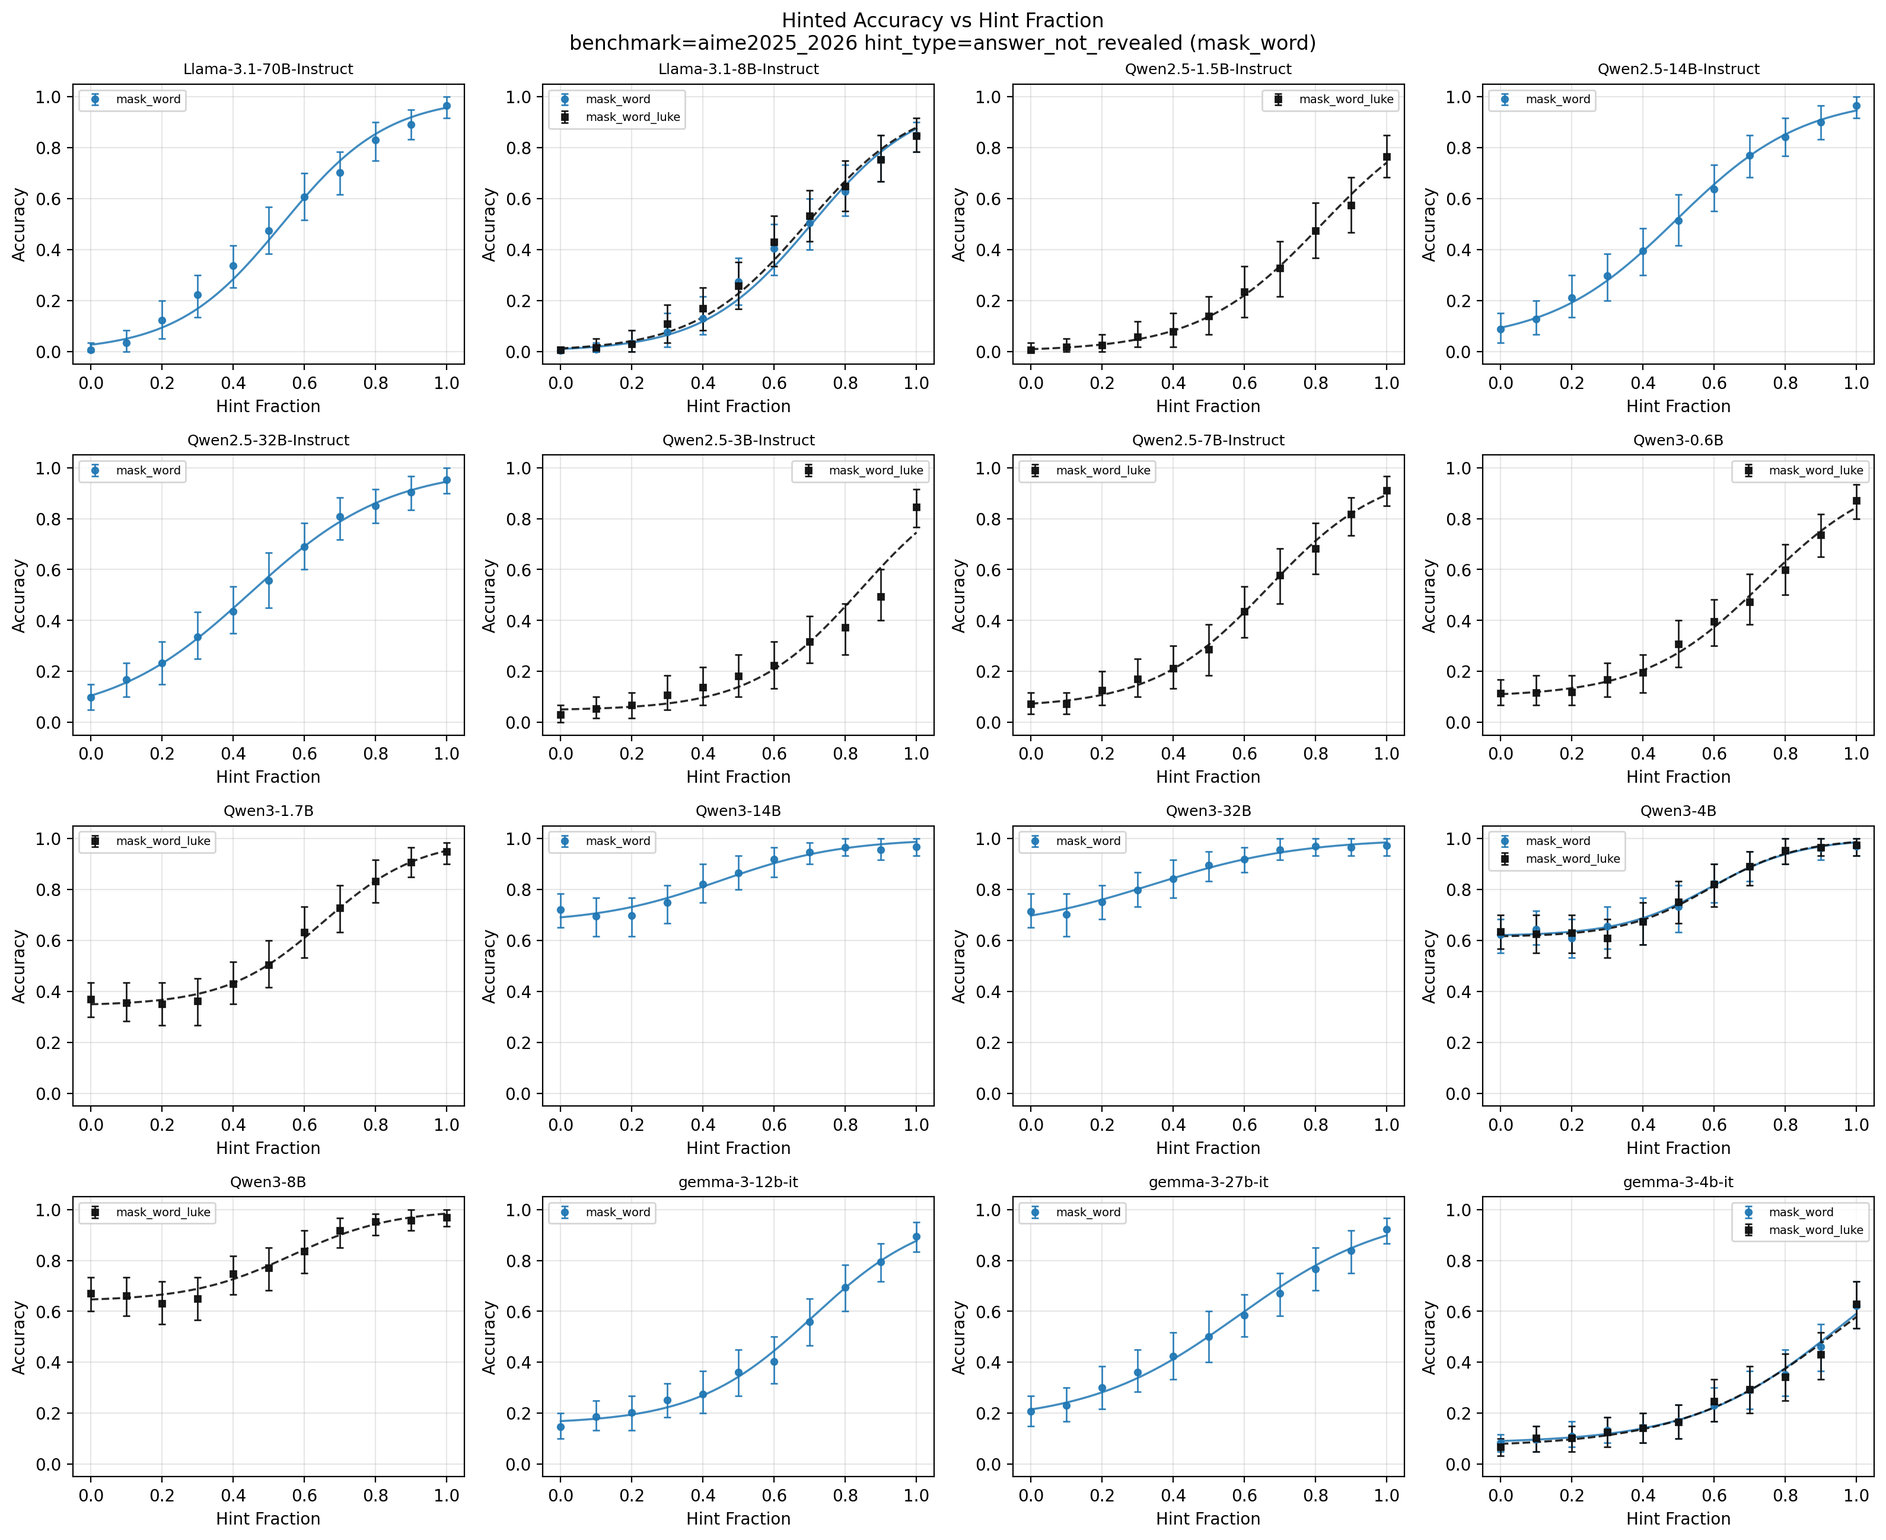
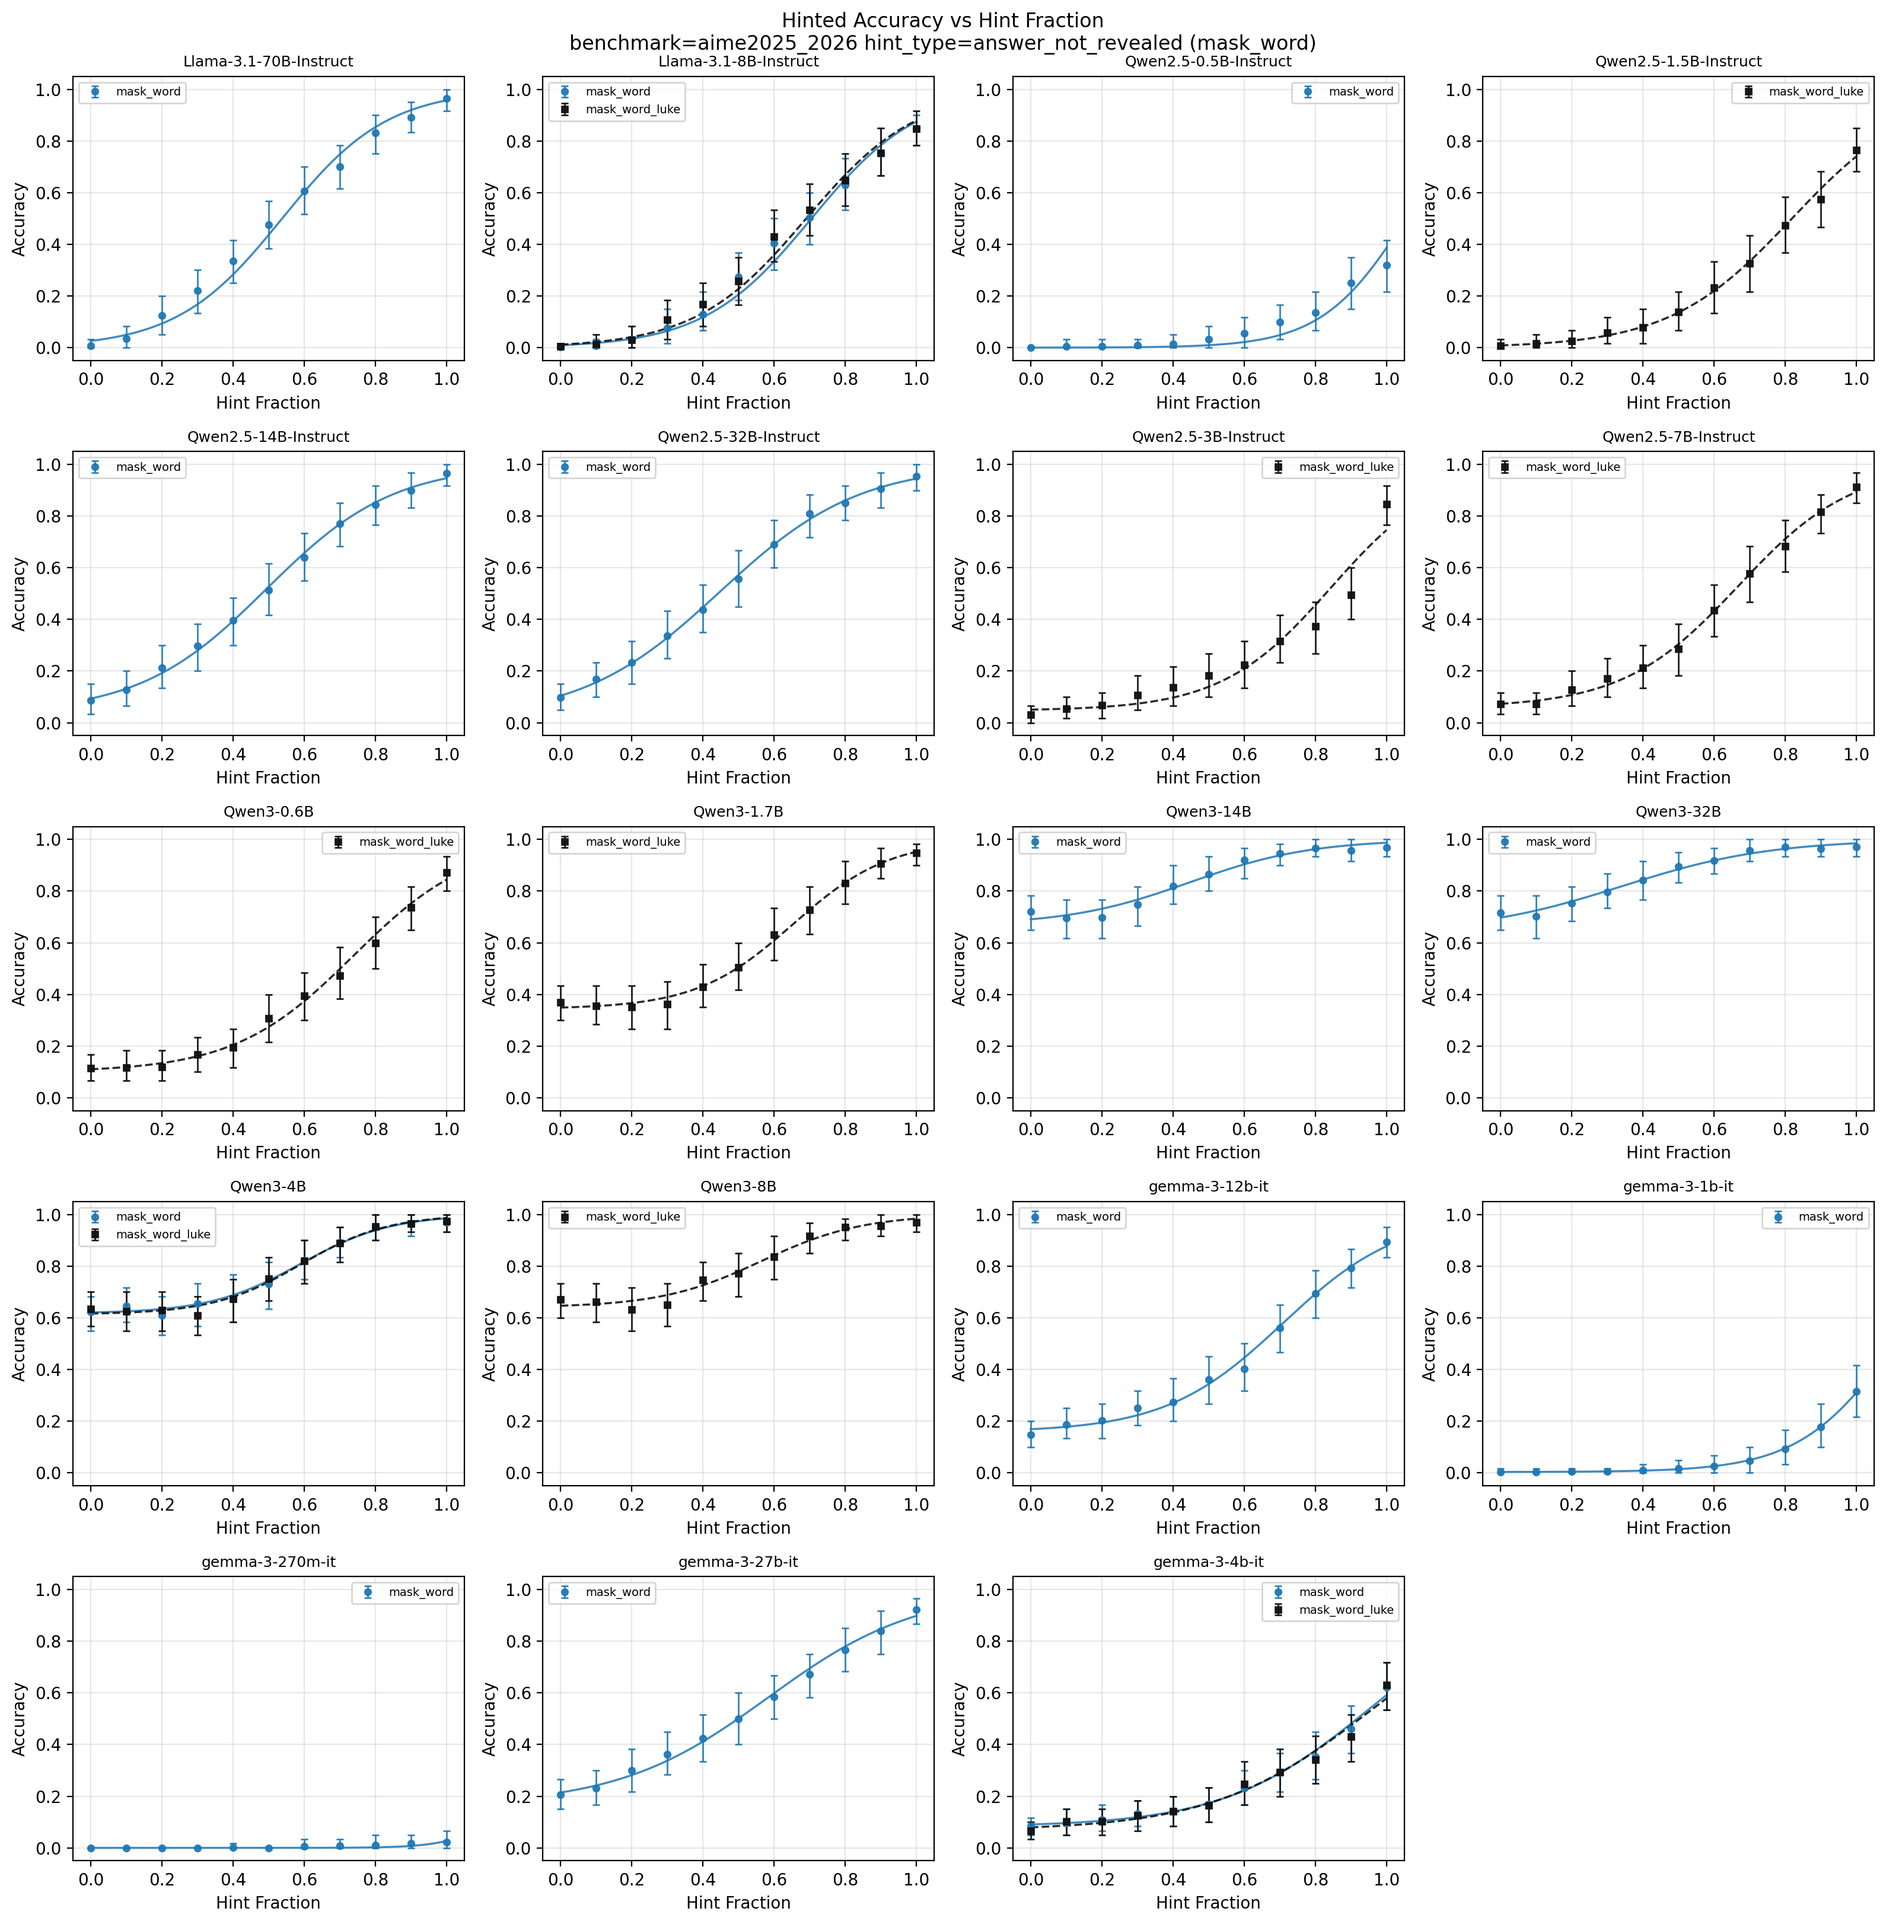
fix miso bug

diff --git a/runs/generate_hinted.py b/runs/generate_hinted.py
@@ -12,7 +12,7 @@ from src.hinted_inference import build_expanded_hinted_prompt_dataset, run_hinte
 from src.model_config import ALL_MODEL_PATHS, ModelSpec, get_model_spec
 from src.storage import build_hint_generation_path, build_hinted_inference_path, read_jsonl
 from src.types import ExpandedHintedPromptRecord, HintGenerationRecord, HintedInferenceRecord
-from src.vllm_server import VLLMServer, VLLMServerConfig
+from src.vllm_server import DEFAULT_HEALTH_TIMEOUT_SECONDS, VLLMServer, VLLMServerConfig
 
 MODELS_TO_RUN = list(ALL_MODEL_PATHS)
 HINT_FRACTIONS = [i / 10 for i in range(11)]
@@ -492,6 +492,7 @@ def _build_run_metadata(
             "gpu_memory_utilization": args.gpu_memory_utilization,
             "max_num_batched_tokens": MAX_NUM_BATCHED_TOKENS,
             "dtype": args.dtype,
+            "health_timeout": DEFAULT_HEALTH_TIMEOUT_SECONDS,
             "enable_prefix_caching": True,
             "enable_chunked_prefill": True,
         },
@@ -695,8 +696,8 @@ MISO
 python -m runs.generate_hinted \
     --benchmark aime2025_2026 \
     --hint-type answer_not_revealed \
-    --fractioner truncate_sentence \
-    --model google/gemma-3-12b-it \
+    --fractioner mask_word \
+    --model meta-llama/Llama-3.3-70B-Instruct \
     --executor submitit \
     --cluster miso \
     --max-connections 360 \
@@ -707,29 +708,19 @@ python -m runs.generate_hinted \
 ^ 260 is too much for Qwen3-32B but good for 14B
 ^260 is not enough for gemma 12B
 
-Qwen2.5-32B-Instruct
-Qwen2.5-14B-Instruct
 
 NLP
 python -m runs.generate_hinted \
     --benchmark aime2025_2026 \
     --hint-type answer_not_revealed \
-    --fractioner truncate_word \
-    --model Qwen/Qwen3-4B \
+    --fractioner mask_word \
+    --model Qwen/Qwen2.5-0.5B-Instruct \
     --executor submitit \
     --cluster sphinx \
     --max-connections 48 \
     --num-gpus 1 \
     --checkpoint-every 500
 
-CREATING HINTS
-python -m runs.generate_hinted \
-    --benchmark aime2025_2026 \
-    --hint-type answer_not_revealed \
-    --fractioner truncate_word \
-    --model Qwen/Qwen3-4B \
-    --executor local \
-    --build-only true
 
 
 TOGETHER

diff --git a/src/vllm_server.py b/src/vllm_server.py
@@ -10,8 +10,9 @@ import urllib.request
 from dataclasses import dataclass
 from typing import Any
 
-HF_HUB_ETAG_TIMEOUT_SECONDS = 60
-HF_HUB_DOWNLOAD_TIMEOUT_SECONDS = 600
+DEFAULT_HEALTH_TIMEOUT_SECONDS = 3600
+HF_HUB_ETAG_TIMEOUT_SECONDS = 300
+HF_HUB_DOWNLOAD_TIMEOUT_SECONDS = 1800
 
 
 def _timestamp() -> str:
@@ -70,7 +71,7 @@ class VLLMServer:
             cmd.extend(["--max-num-batched-tokens", str(self.config.max_num_batched_tokens)])
         return cmd
 
-    def start(self, *, health_timeout: int = 1200) -> None:
+    def start(self, *, health_timeout: int = DEFAULT_HEALTH_TIMEOUT_SECONDS) -> None:
         if self.process is not None:
             return
 

diff --git a/runs/print_hinted_progress.py b/runs/print_hinted_progress.py
@@ -8,13 +8,11 @@ from src.model_config import ALL_MODEL_PATHS, get_model_spec
 
 DEFAULT_HINT_FRACTIONS = [i / 10 for i in range(11)]
 MODEL_PATHS = [
-    "google/gemma-3-27b-it",
-    "meta-llama/Llama-3.1-70B-Instruct",
-    "Qwen/Qwen3-32B",
-    "Qwen/Qwen3-14B",
-    "Qwen/Qwen2.5-32B-Instruct",
-    "Qwen/Qwen2.5-14B-Instruct",
-    "google/gemma-3-12b-it",
+    "google/gemma-3-1b-it",
+    "meta-llama/Llama-3.3-70B-Instruct",
+    "Qwen/Qwen2.5-0.5B-Instruct",
+    "Qwen/Qwen2.5-72B-Instruct",
+    "google/gemma-3-270m-it",
 ]
 
 
